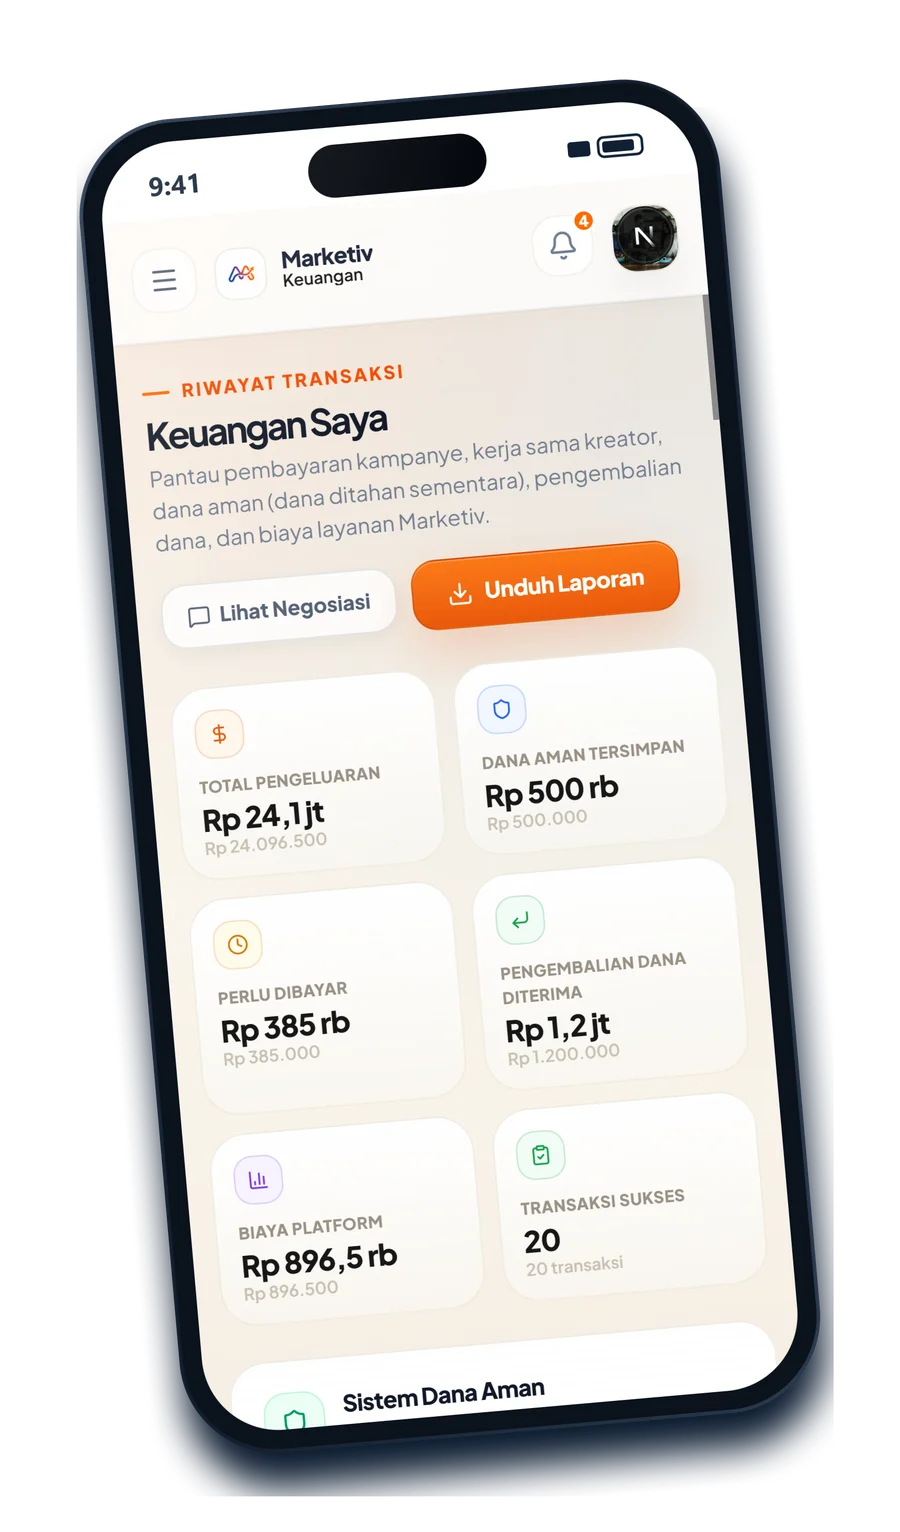
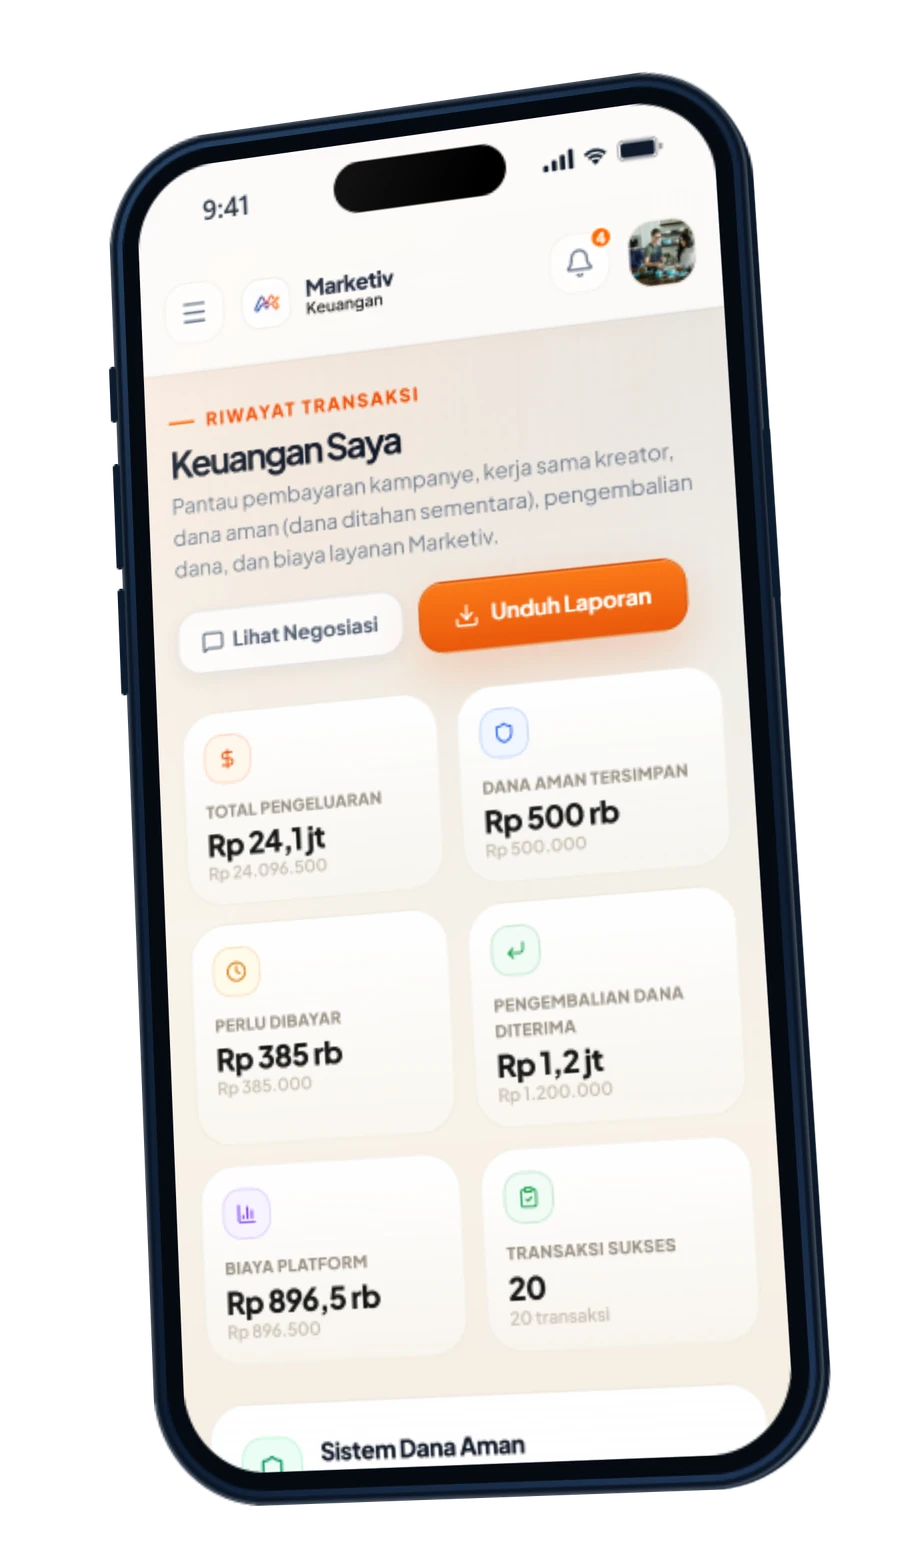
feat(landing): sharp phone mockups and Solusi thumbnails from real mobile UI
- Re-shoot every phone render from the dashboard in mock mode at 390x797
  DPR 3, framed in a CSS iPhone and exported as transparent 900x1562 WebP;
  the old renders were soft and showed the Next dev indicator as the avatar
- Screens picked for their phone layout: Ringkasan Kreator and Ringkasan
  UMKM (hero), Lowongan (Campaign Mode), Paket Harga Jasa (Rate Card Mode),
  Keuangan UMKM (Untuk UMKM), Keuangan & Dompet (Untuk Kreator)
- Solusi 01 and 02 thumbnails are now crops of the Sistem Dana Aman card and
  a job card instead of a full desktop dashboard shrunk to 230 px
- In these landing images only, the mock Sambal Roa (branded candy) and
  Keripik Pisang (kitten) thumbnails are swapped for food photos; mock data
  is untouched
- Drop the unused phone-buat and phone-nego renders

Changed region(s): [[0.0622, 0.0307, 0.9333, 0.9817], [0.5289, 0.5829, 0.7778, 0.7056]]

diff --git a/src/data/content.ts b/src/data/content.ts
@@ -41,7 +41,7 @@ export const LANDING_CONTENT: LandingContent = {
       { kind: "screen", src: "/landing/renders/phone-kreator.webp", alt: "Layar ringkasan kreator di aplikasi Marketiv, data contoh" },
       { kind: "photo", src: "/landing/photos/kategori-handmade.webp", alt: "Perempuan membatik kain dengan canting" },
       { kind: "photo", src: "/landing/photos/kreator-dslr.webp", alt: "Perempuan berhijab memegang kamera di jembatan gantung" },
-      { kind: "screen", src: "/landing/renders/phone-buat.webp", alt: "Layar Buat Kampanye Baru di aplikasi Marketiv, data contoh" },
+      { kind: "screen", src: "/landing/renders/phone-umkm.webp", alt: "Layar ringkasan UMKM di aplikasi Marketiv, data contoh" },
       { kind: "photo", src: "/landing/photos/kategori-kosmetik.webp", alt: "Produk perawatan kulit dengan daun hijau" },
     ],
     stripCaption: "Layar aplikasi berisi data contoh",
@@ -81,14 +81,14 @@ export const LANDING_CONTENT: LandingContent = {
       {
         title: "Dana ditahan escrow",
         description: "Pembayaran lewat Midtrans masuk ke escrow Marketiv. Kreator baru menerima dana setelah kerjanya tervalidasi atau disetujui UMKM.",
-        image: "/landing/umkm-dashboard.webp",
-        imageAlt: "Ringkasan kampanye dan dana berjalan di dashboard UMKM, data contoh",
+        image: "/landing/pillar-escrow.webp",
+        imageAlt: "Kartu Sistem Dana Aman di aplikasi Marketiv: dana disimpan, ditahan, lalu dicairkan ke kreator",
       },
       {
         title: "Bayar sesuai hasil",
         description: "Di Campaign Mode, reward kreator dihitung dari views yang lolos validasi.",
-        image: "/landing/kreator-jobpool.webp",
-        imageAlt: "Lowongan kampanye dengan imbalan per 1.000 tayangan, data contoh",
+        image: "/landing/pillar-views.webp",
+        imageAlt: "Kartu lowongan kampanye dengan imbalan Rp 20.000 per 1.000 tayangan, data contoh",
       },
       {
         title: "Kreator dapat job",
@@ -116,8 +116,8 @@ export const LANDING_CONTENT: LandingContent = {
       ],
       rules: ["Tanpa chat", "Tanpa revisi", "Divalidasi sistem dan tim Marketiv", "Biaya platform 2% ditanggung UMKM"],
       tone: "umkm",
-      image: "/landing/renders/phone-buat.webp",
-      imageAlt: "Layar Buat Kampanye Baru di aplikasi Marketiv, data contoh",
+      image: "/landing/renders/phone-jobpool.webp",
+      imageAlt: "Layar Lowongan Kampanye dengan imbalan per 1.000 tayangan di aplikasi Marketiv, data contoh",
     },
     rateCard: {
       id: "rate-card",
@@ -132,8 +132,8 @@ export const LANDING_CONTENT: LandingContent = {
       ],
       rules: ["Ada chat negosiasi", "Revisi sesuai batas paket", "Disetujui UMKM", "Biaya platform 2% dipotong dari pendapatan kreator"],
       tone: "kreator",
-      image: "/landing/renders/phone-nego.webp",
-      imageAlt: "Layar Negosiasi Paket Harga di aplikasi Marketiv, data contoh",
+      image: "/landing/renders/phone-ratecard.webp",
+      imageAlt: "Layar Paket Harga Jasa kreator di aplikasi Marketiv, data contoh",
     },
   },
   escrow: {
@@ -243,8 +243,8 @@ export const LANDING_CONTENT: LandingContent = {
       "Tarik saldo mulai Rp 50.000 ke rekening bank atau e-wallet.",
     ],
     cta: "Daftar sebagai Kreator",
-    jobImage: "/landing/renders/phone-kreator.webp",
-    jobImageAlt: "Layar ringkasan kreator di aplikasi Marketiv, data contoh",
+    jobImage: "/landing/renders/phone-dompet.webp",
+    jobImageAlt: "Layar Keuangan dan Dompet kreator dengan saldo siap ditarik, data contoh",
     // Unsplash, foto oleh @mruqi (Bandung). Ilustrasi suasana, bukan pengguna Marketiv.
     photo: "/landing/photos/kreator-dslr.webp",
     photoAlt: "Perempuan berhijab memegang kamera di jembatan gantung",

diff --git a/src/components/features/landing/AudienceSection.tsx b/src/components/features/landing/AudienceSection.tsx
@@ -102,7 +102,7 @@ export function AudienceSection({ umkm, kreator }: AudienceSectionProps) {
               </div>
               <div data-stack-item className="hidden lg:absolute lg:bottom-0 lg:right-[3%] lg:z-10 lg:block lg:w-[19%]">
                 <Parallax speed={14}>
-                  <Image src={umkm.image} alt={umkm.imageAlt} width={900} height={1532} sizes="(min-width: 1024px) 12vw, 34vw" className="h-auto w-full select-none" />
+                  <Image src={umkm.image} alt={umkm.imageAlt} width={900} height={1562} sizes="(min-width: 1024px) 12vw, 34vw" className="h-auto w-full select-none" />
                 </Parallax>
               </div>
               <div data-stack-item className="relative z-[5] -mt-10 mx-3 lg:absolute lg:bottom-0 lg:left-[6%] lg:mx-0 lg:mt-0 lg:w-[58%]">
@@ -134,7 +134,7 @@ export function AudienceSection({ umkm, kreator }: AudienceSectionProps) {
                 <div className="absolute -bottom-8 -right-3 w-[38%] max-w-[170px] lg:-right-10 lg:w-[44%] lg:max-w-none">
                   <Parallax speed={10}>
                     <TiltCard>
-                      <Image src={kreator.jobImage} alt={kreator.jobImageAlt} width={900} height={1532} sizes="(min-width: 1024px) 12vw, 38vw" className="h-auto w-full select-none" />
+                      <Image src={kreator.jobImage} alt={kreator.jobImageAlt} width={900} height={1562} sizes="(min-width: 1024px) 12vw, 38vw" className="h-auto w-full select-none" />
                     </TiltCard>
                   </Parallax>
                 </div>

diff --git a/docs/landing-revamp/PLAN.md b/docs/landing-revamp/PLAN.md
@@ -529,4 +529,4 @@ Owner menilai versi Armor/Sphere/DontMatter masih terlalu kosong dan terlihat bu
     - `force3D` dipasang pada track horizontal, StickyStack, dan Parallax.
   - Beban load: `src/app/icon.png`, `apple-icon.png`, dan `favicon.ico` adalah PNG 1254px berukuran 633 KB yang terunduh dua kali per halaman. Ukurannya diperkecil ke 512, 180, dan 64 px (58, 9, dan 2 KB). LCP 1,0 detik.
   - Dev server (`next dev`) wajar terasa lebih berat daripada produksi. Penilaian performa sebaiknya memakai `npm run build` lalu `npm start`.
-
+- **Render HP dan thumbnail Solusi dibuat ulang (2026-10-19).** Sumbernya screenshot asli dashboard mode mock (`NEXT_PUBLIC_USE_MOCK_DATA=true`, build lokal), viewport 390x797 DPR 3, dibingkai frame iPhone HTML/CSS lalu diekspor WebP 900x1562 transparan. Layar dipilih yang tata letaknya rapi di HP: Ringkasan Kreator, Ringkasan UMKM, Lowongan, Paket Harga Jasa, Keuangan UMKM, Keuangan & Dompet Kreator. Analitik dan Kampanye Saya tidak dipakai karena tombolnya terpotong di 390 px (catatan untuk revamp dashboard). Thumbnail Solusi 01 dan 02 memakai crop kartu Sistem Dana Aman dan kartu lowongan. Di gambar landing saja, thumbnail mock "Sambal Roa" (cokelat bermerek) dan "Keripik Pisang" (foto kucing) diganti foto makanan Unsplash; data mock tidak disentuh.
